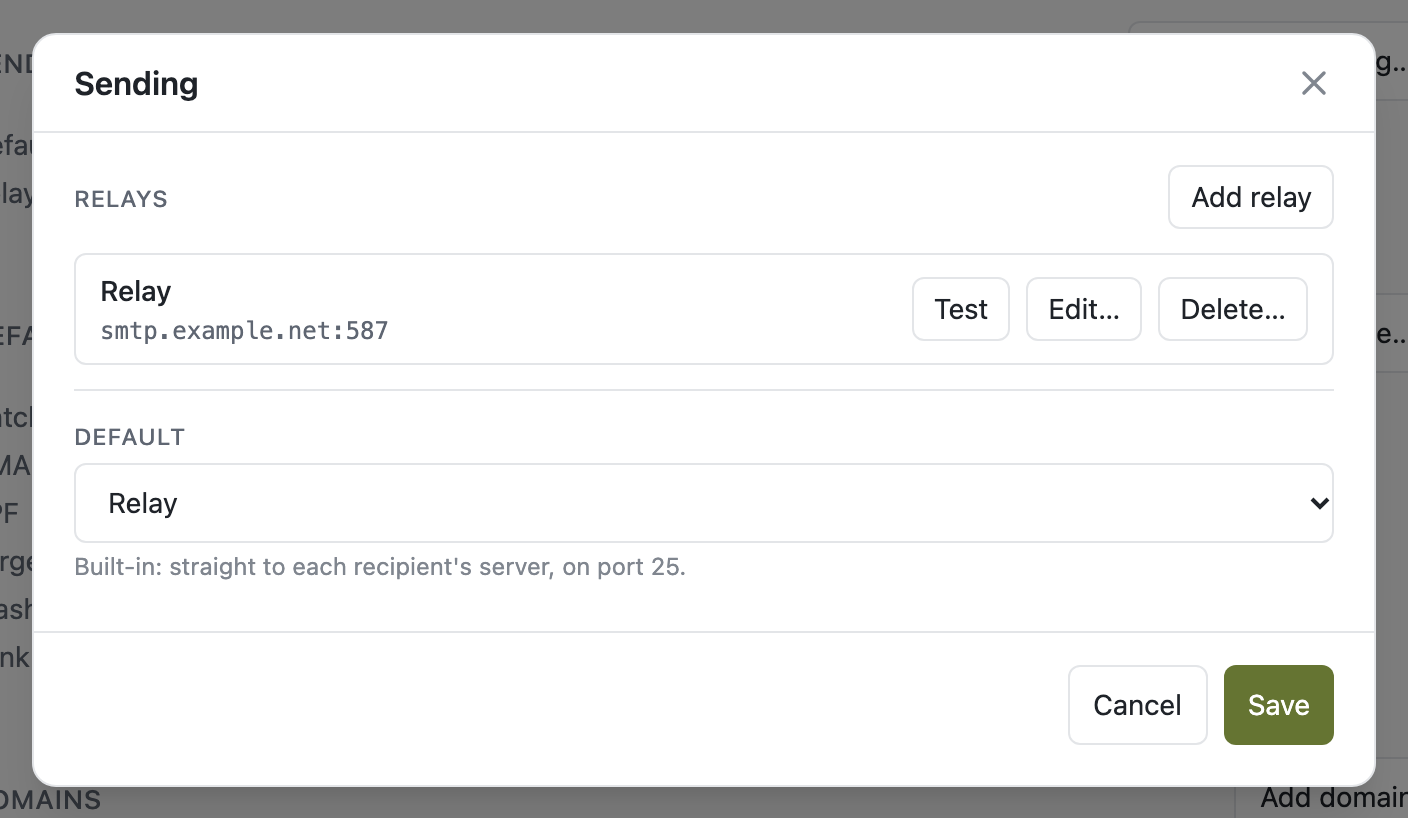
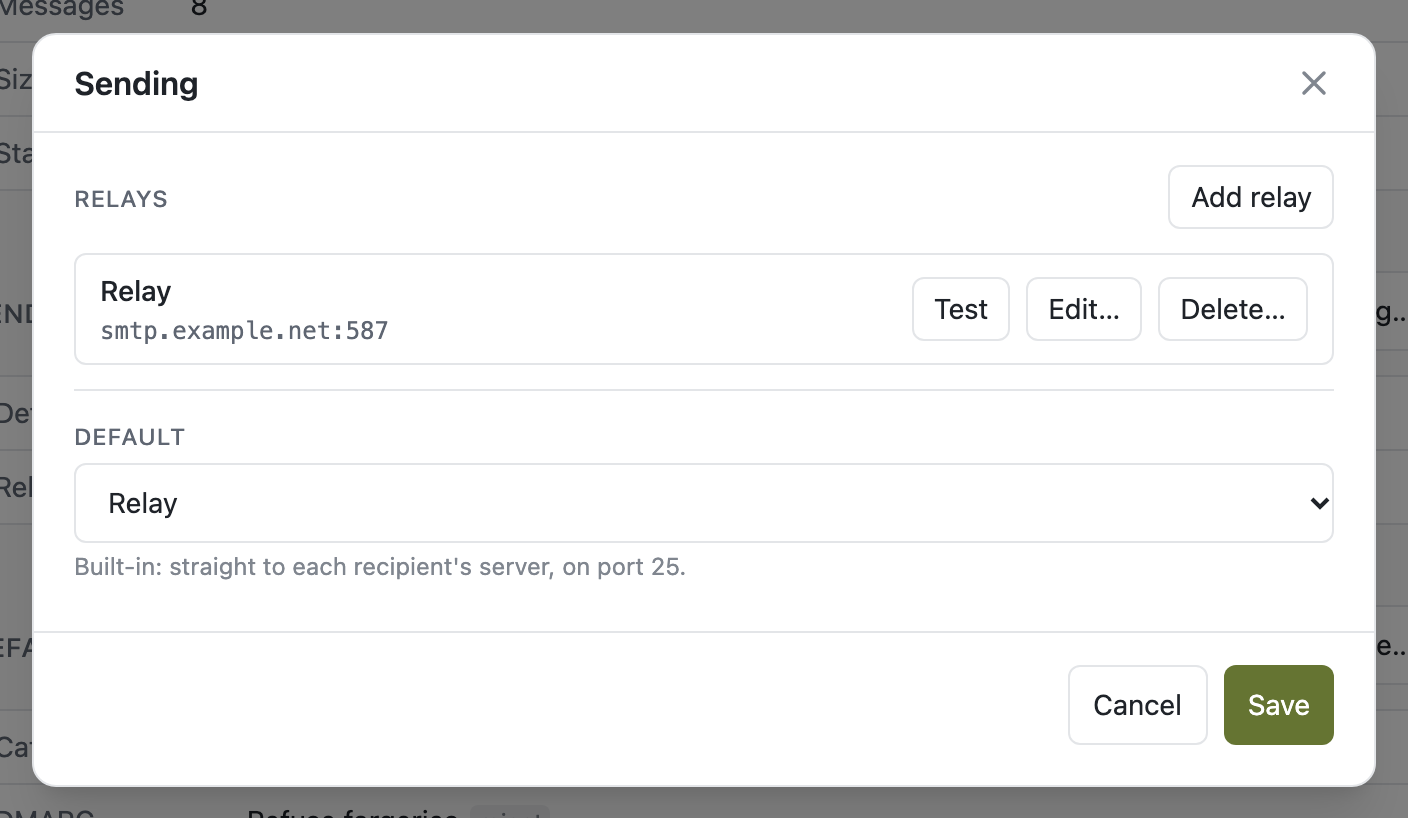
Lay the admin page out in two columns that scroll on their own, card the server's sections, and badge the DMARC and SPF policies

diff --git a/web/src/pages/admin/shared.tsx b/web/src/pages/admin/shared.tsx
@@ -75,7 +75,8 @@ export function Section({
 }) {
   return (
     <section className="flex flex-col gap-3">
-      <div className="flex items-center gap-3">
+      {/* A button's height with or without one, so side-by-side sections' titles line up. */}
+      <div className="flex min-h-10 items-center gap-3">
         <h2 className="caps text-muted">{title}</h2>
         <span className="flex-1" />
         {action}
@@ -482,7 +483,30 @@ export function ShownCredential({
 }
 
 /** Labels and their values, as a section shows what it holds. */
-export function Facts({ items }: { items: [string, ReactNode][] }) {
+export function Facts({
+  items,
+  boxed = false,
+}: {
+  items: [string, ReactNode][];
+  /** A card of its own, a line between rows, as the page's sections are; not inside a dialog. */
+  boxed?: boolean;
+}) {
+  if (boxed) {
+    return (
+      <dl className="grid grid-cols-[auto_1fr] divide-y divide-line rounded-md border border-line bg-bg text-sm">
+        {items.map(([label, value]) => (
+          // A subgrid, so every row's labels share one column.
+          <div
+            key={label}
+            className="col-span-2 grid grid-cols-subgrid gap-x-4 px-3 py-2"
+          >
+            <dt className="text-muted">{label}</dt>
+            <dd className="min-w-0 break-words">{value}</dd>
+          </div>
+        ))}
+      </dl>
+    );
+  }
   return (
     <dl className="grid grid-cols-[auto_1fr] gap-x-4 gap-y-1 text-sm">
       {items.map(([label, value]) => (
@@ -532,17 +556,44 @@ export const dmarcHint =
 export const spfHint =
   "Tells other mail servers which server sends this domain's mail, and what to think of mail sent from anywhere else.";
 
-export const dmarcLabels: Record<DMARC, string> = {
-  reject: "Refuse forgeries (reject)",
-  quarantine: "Send forgeries to spam (quarantine)",
-  none: "Deliver forgeries, report only (none)",
+/** Each DMARC and SPF policy in plain words; the policy itself goes beside them. */
+export const dmarcWords: Record<DMARC, string> = {
+  reject: "Refuse forgeries",
+  quarantine: "Send forgeries to spam",
+  none: "Deliver forgeries, report only",
 };
 
-export const spfLabels: Record<SPF, string> = {
-  "-all": "Other servers' mail fails (-all)",
-  "~all": "Other servers' mail is suspect (~all)",
-  "?all": "No word on other servers (?all)",
+export const spfWords: Record<SPF, string> = {
+  "-all": "Other servers' mail fails",
+  "~all": "Other servers' mail is suspect",
+  "?all": "No word on other servers",
 };
+
+/** As an option says them, which holds text alone: the words, and the policy in brackets. */
+export const dmarcLabels = bracketed(dmarcWords);
+export const spfLabels = bracketed(spfWords);
+
+function bracketed<K extends string>(words: Record<K, string>) {
+  return Object.fromEntries(
+    Object.entries<string>(words).map(([k, w]) => [k, `${w} (${k})`]),
+  ) as Record<K, string>;
+}
+
+/** The words, and the policy as a badge beside them. */
+export function Policy<K extends string>({
+  words,
+  policy,
+}: {
+  words: Record<K, string>;
+  policy: K;
+}) {
+  return (
+    <>
+      {words[policy]}
+      <Tag>{policy}</Tag>
+    </>
+  );
+}
 
 export const incomingLabels: Record<Incoming, string> = {
   keep: "Keep",

diff --git a/web/src/pages/Admin.tsx b/web/src/pages/Admin.tsx
@@ -25,6 +25,11 @@ import { Sending } from "@app/pages/admin/Sending";
 /**
  * Everything an admin decides, a section each. Every change happens in a dialog that holds it
  * until Save, so the page itself only ever shows what the server has.
+ *
+ * One column on a phone, the page scrolling as one. On a wide screen the page is the window's
+ * height: the server's own sections are a narrow column and the domains, the longest and most
+ * used, the rest, each column scrolling on its own. Each scrollbar has a lane of its own beside
+ * its column, outside the cards, rather than drawn over their edge.
  */
 export function Admin() {
   const me = useQuery({ queryKey: ["me"], queryFn: getMe });
@@ -46,7 +51,7 @@ export function Admin() {
     queue.error ??
     settings.error;
   return (
-    <div className="mx-auto flex w-full max-w-3xl flex-col gap-10 px-4 py-6">
+    <div className="mx-auto flex w-full max-w-3xl flex-col gap-10 px-4 py-6 lg:h-dvh lg:max-w-6xl">
       <header className="flex items-center gap-4">
         <h1 className="text-xl font-semibold">
           <Wordmark />
@@ -73,21 +78,29 @@ export function Admin() {
       relays.data &&
       queue.data &&
       settings.data ? (
-        <>
-          <MailServer mail={mail.data} accounts={accounts.data} />
-          <Sending settings={settings.data} relays={relays.data} />
-          <Defaults settings={settings.data} />
-          <Domains
-            domains={domains.data}
-            settings={settings.data}
-            accounts={accounts.data}
-            relays={relays.data}
-            dnsAPI={mail.data.dns_api}
-            staging={mail.data.staging}
-          />
-          <Queue queue={queue.data} />
-          <Admins admins={admins.data} me={me.data} />
-        </>
+        <div className="flex flex-col gap-10 lg:grid lg:min-h-0 lg:flex-1 lg:grid-cols-[24rem_minmax(0,1fr)] lg:grid-rows-[minmax(0,1fr)] lg:gap-x-3">
+          {/* Only a box on a wide screen: on a phone its sections are the page's own, the
+              queue and the admins after the domains. */}
+          <div className="contents lg:flex lg:min-h-0 lg:flex-col lg:gap-10 lg:overflow-y-auto lg:pr-3 lg:[scrollbar-gutter:stable]">
+            <MailServer mail={mail.data} accounts={accounts.data} />
+            <Sending settings={settings.data} relays={relays.data} />
+            <Defaults settings={settings.data} />
+            <div className="order-1 flex flex-col gap-10 lg:order-none">
+              <Queue queue={queue.data} />
+              <Admins admins={admins.data} me={me.data} />
+            </div>
+          </div>
+          <div className="lg:-mr-3 lg:min-h-0 lg:overflow-y-auto lg:pr-3 lg:[scrollbar-gutter:stable]">
+            <Domains
+              domains={domains.data}
+              settings={settings.data}
+              accounts={accounts.data}
+              relays={relays.data}
+              dnsAPI={mail.data.dns_api}
+              staging={mail.data.staging}
+            />
+          </div>
+        </div>
       ) : null}
     </div>
   );

diff --git a/web/src/pages/admin/Defaults.tsx b/web/src/pages/admin/Defaults.tsx
@@ -21,11 +21,14 @@ import {
   daysKept,
   dmarcHint,
   dmarcLabels,
+  dmarcWords,
   limitTyped,
   mbText,
   megabytes,
+  Policy,
   spfHint,
   spfLabels,
+  spfWords,
   toBytes,
   unknownLabels,
   useDraft,
@@ -46,10 +49,11 @@ export function Defaults({ settings }: { settings: Settings }) {
       action={<Button onClick={() => setOpen(true)}>Change…</Button>}
     >
       <Facts
+        boxed
         items={[
           ["Catch-all", unknownLabels[settings.unknown]],
-          ["DMARC", dmarcLabels[settings.dmarc]],
-          ["SPF", spfLabels[settings.spf]],
+          ["DMARC", <Policy words={dmarcWords} policy={settings.dmarc} />],
+          ["SPF", <Policy words={spfWords} policy={settings.spf} />],
           ["Largest message", megabytes(settings.max_message_bytes)],
           ["Trash kept", daysKept(settings.trash_days)],
           ["Junk kept", daysKept(settings.junk_days)],

diff --git a/web/src/pages/admin/Sending.tsx b/web/src/pages/admin/Sending.tsx
@@ -39,6 +39,7 @@ export function Sending({
       action={<Button onClick={() => setOpen(true)}>Configure sending…</Button>}
     >
       <Facts
+        boxed
         items={[
           ["Default", relayName(settings.relay_id, relays)],
           ["Relays", relays.map((r) => r.label).join(", ") || "None"],

diff --git a/web/src/pages/admin/MailServer.tsx b/web/src/pages/admin/MailServer.tsx
@@ -19,6 +19,7 @@ export function MailServer({
   return (
     <Section title="Mail server">
       <Facts
+        boxed
         items={[
           ["Host", <span className="font-mono">{mail.host}</span>],
           ["IMAP", "993"],
